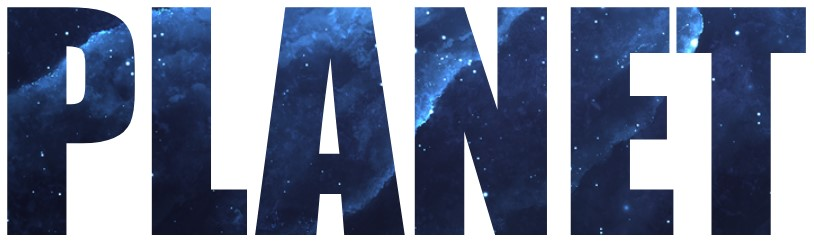
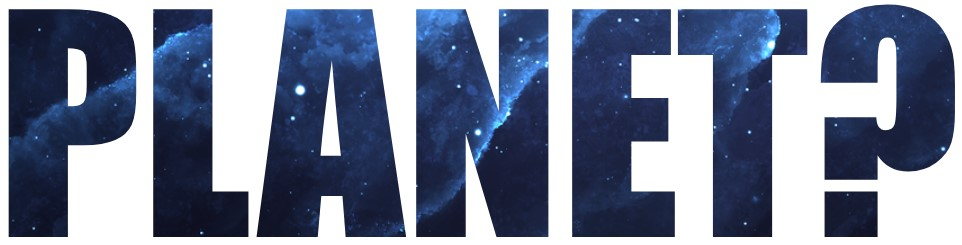
e

diff --git a/COMPLETE/main.css b/COMPLETE/main.css
@@ -750,8 +750,8 @@ section::after {
     top: 70%;
     left: 50%;
     transform: translateX(-50%) translateY(-50%);
-    background-size: cover;
-    /* 요소의 공백을 어떻게 처리할까? */
+    background-size: cover; */
+/* 요소의 공백을 어떻게 처리할까? */
 /* white-space: nowrap;
     background-position: 50% 50%;
     text-align: center;
@@ -847,8 +847,8 @@ section::after {
     position: absolute;
     width: 3.3vw;
     height: 3.3vw;
-    border-left: 3.3vw solid rgba(63, 113, 221, 0.5);
-    border-bottom: 3.3vw solid rgba(63, 113, 221, 0.5);
+    border-left: 3.3vw solid #0e1326;
+    border-bottom: 3.3vw solid #0e1326;
     transform: translate(3.3vw, 13.2vw) rotate(-135deg);
     animation: arrows 2s linear infinite -2s;
     z-index: 999;
@@ -857,26 +857,26 @@ section::after {
 
 @keyframes arrows {
     0% {
-        border-left: 3.3vw solid rgba(63, 113, 221, 0.5);
-        border-bottom: 3.3vw solid rgba(63, 113, 221, 0.5);
+        border-left: 3.3vw solid #0e1326;
+        border-bottom: 3.3vw solid #0e1326;
         transform: translate(-2.6vw, 0) rotate(-135deg);
     }
 
     10%,
     90% {
-        border-left: 3.3vw solid rgba(63, 113, 221, 0.5);
-        border-bottom: 3.3vw solid rgba(63, 113, 221, 0.5);
+        border-left: 3.3vw solid #0e1326;
+        border-bottom: 3.3vw solid #0e1326;
     }
 
     50% {
-        border-left: 3.3vw solid rgba(63, 113, 221, 0.5);
-        border-bottom: 3.3vw solid rgba(63, 113, 221, 0.5);
+        border-left: 3.3vw solid #0e1326;
+        border-bottom: 3.3vw solid #0e1326;
         transform: translate(1.6vw, 0px) rotate(-135deg);
     }
 
     100% {
-        border-left: 3.3vw solid rgba(63, 113, 221, 0.5);
-        border-bottom: 3.3vw solid rgba(63, 113, 221, 0.5);
+        border-left: 3.3vw solid #0e1326;
+        border-bottom: 3.3vw solid #0e1326;
         transform: translate(4.6vw, 0) rotate(-135deg);
     }
 }

diff --git a/COMPLETE/index.html b/COMPLETE/index.html
@@ -162,7 +162,7 @@
       <div class="box-with-text">
         <!-- <div>what's</div>
         <div>your</div>
-        <div>planet</div> -->
+        <div>planet?</div> -->
         <!-- <img src="./img/what.png" alt="what" class="what">
         <img src="./img/your.png" alt="your" class="your">
         <img src="./img/planet.png" alt="planet" class="planet"> -->
